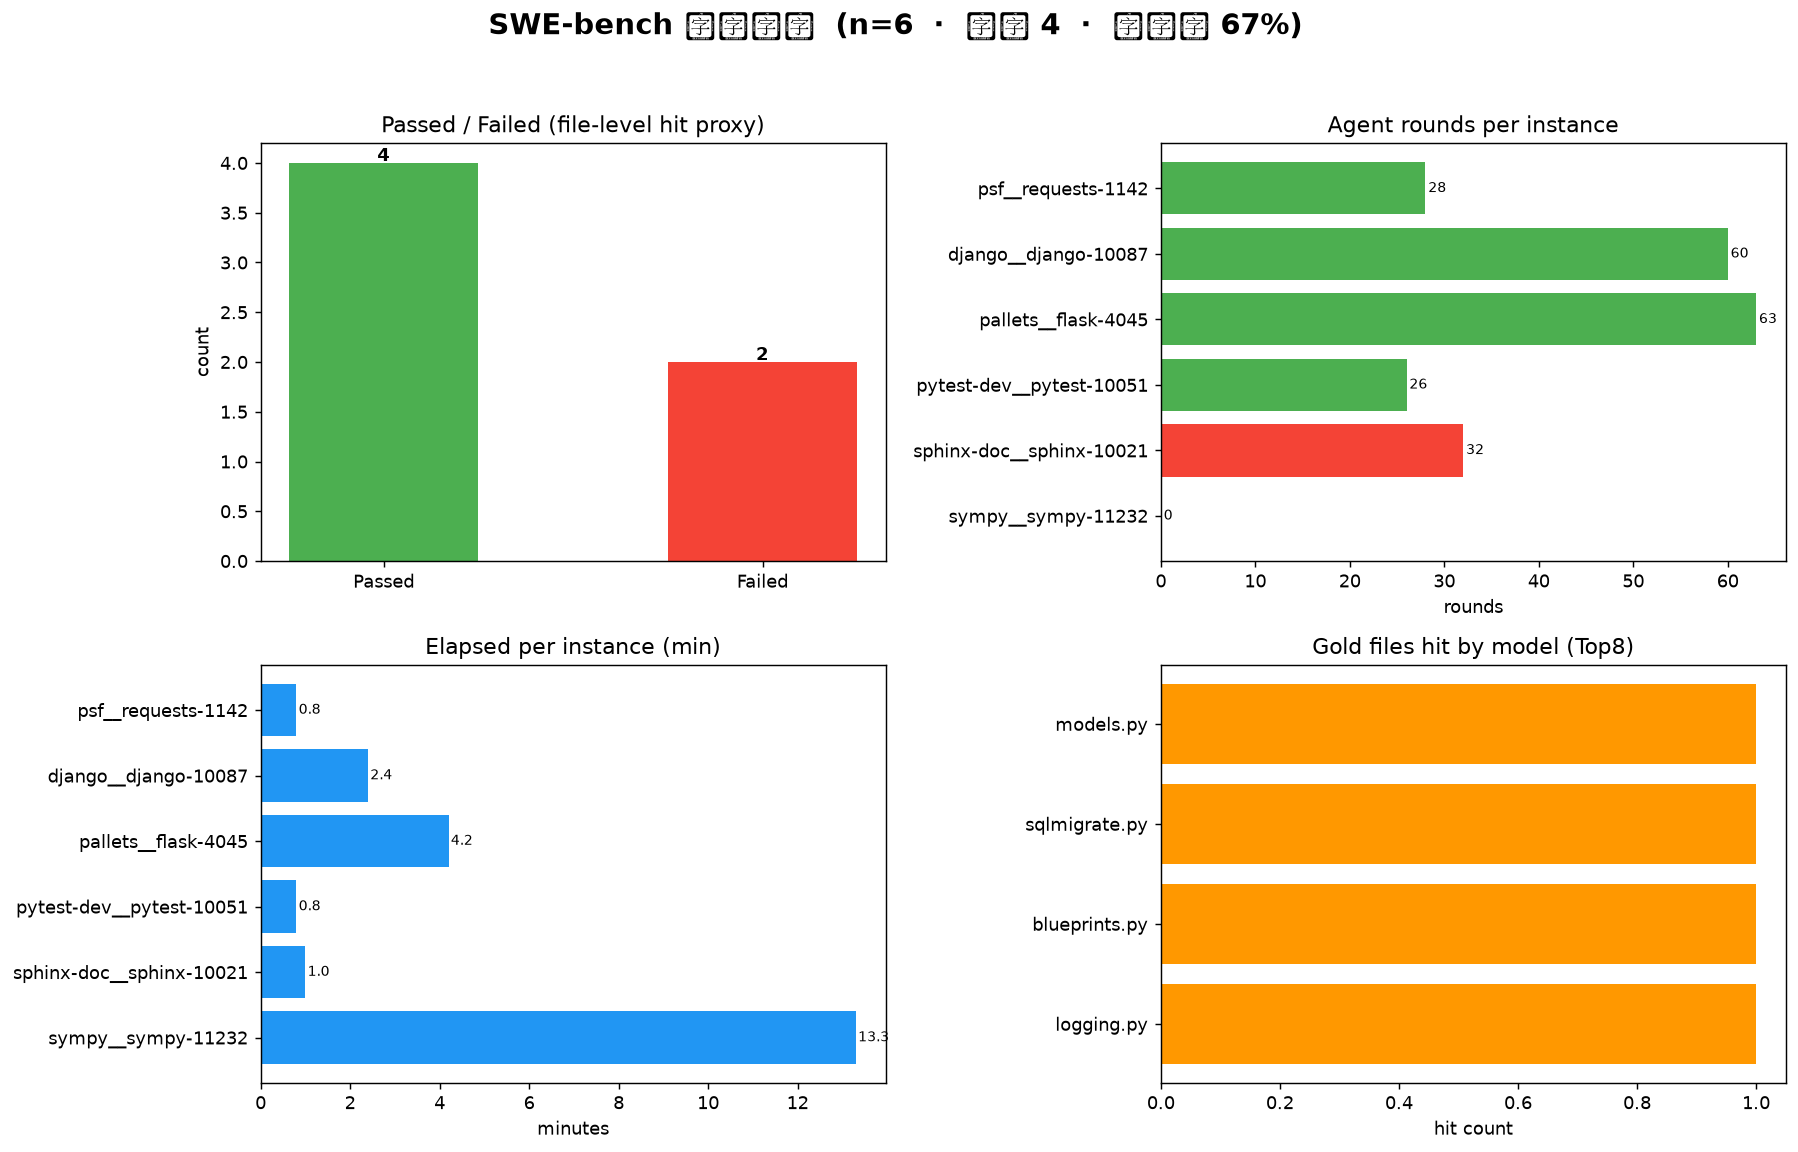
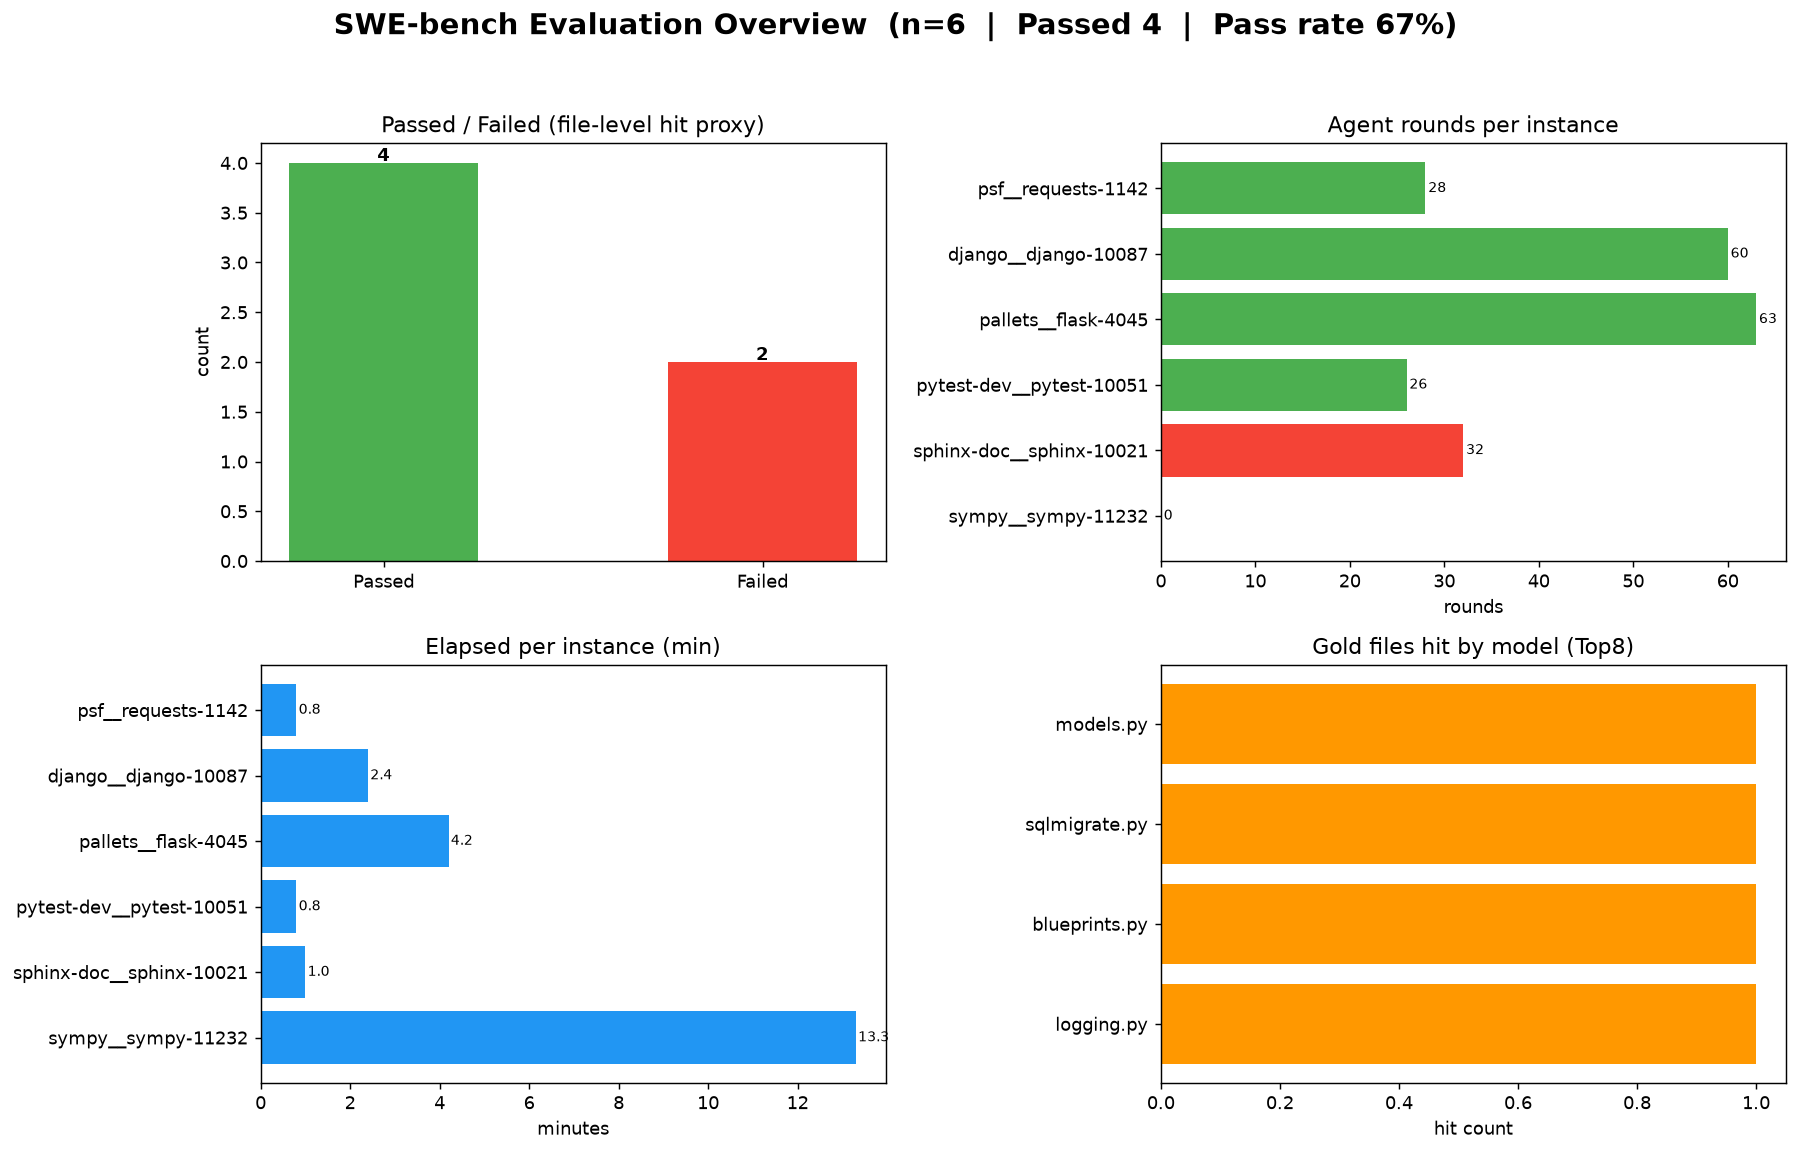
fix(visualize): use English chart titles to avoid missing-CJK-glyph boxes
System has no CJK font, so Chinese suptitles/titles rendered as tofu
boxes. Convert dashboard/per-repo/per-instance titles to English and
regenerate result charts.

Changed region(s): [[0.1869, 0.0, 0.8098, 0.0625]]

diff --git a/benchmarks/visualize.py b/benchmarks/visualize.py
@@ -73,7 +73,8 @@ def plot_dashboard(results: list, out: Path) -> Path:
 
     fig, axes = plt.subplots(2, 2, figsize=(14, 9))
     fig.suptitle(
-        f"SWE-bench 评测总览  (n={len(results)}  ·  通过 {n_ok}  ·  通过率 {n_ok / max(len(results), 1):.0%})",
+        f"SWE-bench Evaluation Overview  (n={len(results)}  |  Passed {n_ok}  |  "
+        f"Pass rate {n_ok / max(len(results), 1):.0%})",
         fontsize=16, fontweight="bold",
     )
 
@@ -139,7 +140,7 @@ def plot_per_repo(results: list, out: Path) -> Path:
     valid = [sum(1 for x in by_repo[r] if x.get("passed")) for r in repos]
 
     fig, (ax1, ax2) = plt.subplots(1, 2, figsize=(13, 5))
-    fig.suptitle("按仓库汇总", fontsize=15, fontweight="bold")
+    fig.suptitle("Per-repo summary", fontsize=15, fontweight="bold")
 
     ax1.bar(repos, counts, color="#9E9E9E")
     ax1.set_title("Instance count")
@@ -178,7 +179,7 @@ def plot_per_instance(results: list, out: Path) -> Path:
     table.auto_set_font_size(False)
     table.set_fontsize(9)
     table.scale(1, 1.4)
-    ax.set_title("逐实例明细", fontsize=15, fontweight="bold")
+    ax.set_title("Per-instance details", fontsize=15, fontweight="bold")
     fig.tight_layout()
     fig.savefig(out, dpi=130, bbox_inches="tight")
     return out
